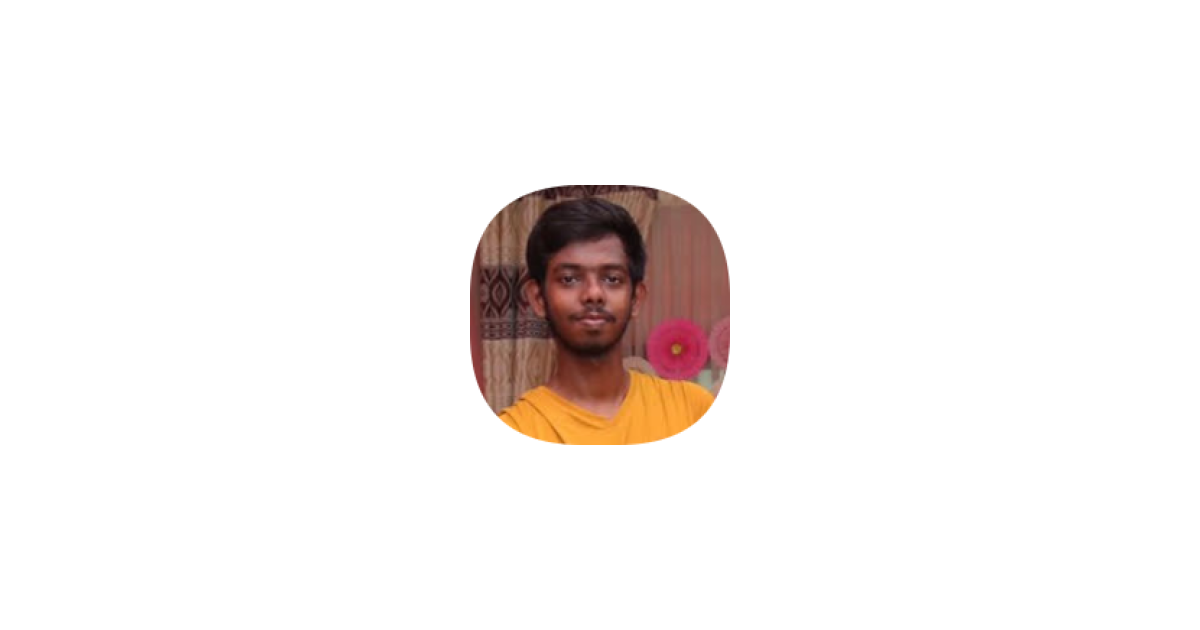
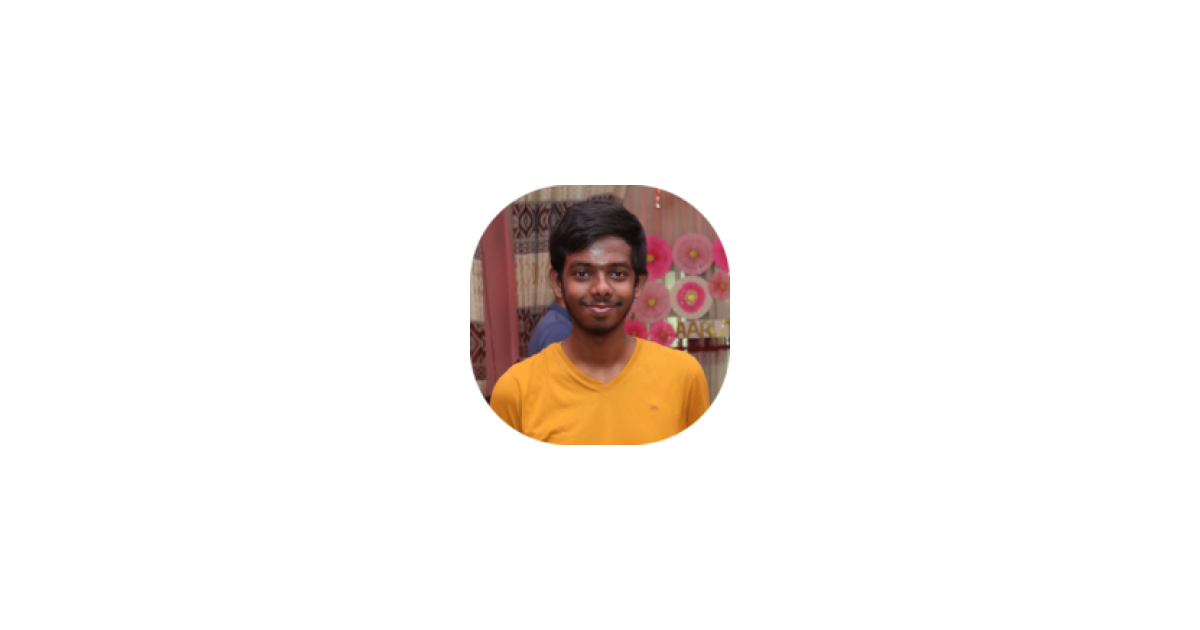
Update from https://github.com/sahithyandev/static-blog/commit/28055900b13a53f1396fbbd0891c49ab7c7b8c8c

Changed region(s): [[0.37, 0.2714, 0.6167, 0.7238], [0.5242, 0.6937, 0.555, 0.7238]]

diff --git a/index.js b/index.js
@@ -1,4 +1,4 @@
-!function(t,n){"use strict";
+!function(t,e){"use strict";
 /*! *****************************************************************************
     Copyright (c) Microsoft Corporation.
 
@@ -12,7 +12,7 @@
     LOSS OF USE, DATA OR PROFITS, WHETHER IN AN ACTION OF CONTRACT, NEGLIGENCE OR
     OTHER TORTIOUS ACTION, ARISING OUT OF OR IN CONNECTION WITH THE USE OR
     PERFORMANCE OF THIS SOFTWARE.
-    ***************************************************************************** */var e=function(){return(e=Object.assign||function(t){for(var n,e=1,r=arguments.length;e<r;e++)for(var a in n=arguments[e])Object.prototype.hasOwnProperty.call(n,a)&&(t[a]=n[a]);return t}).apply(this,arguments)},r=function(n){n.href||console.warn("A link without 'href' is found\nDEBUG_NOTE "+n.children);var r=n.href||"",a=n.disableDefaultStyles||!1,i=e({},n);return r.startsWith("/")||r.startsWith("#")?i["data-is-internal"]="":(i.target="_blank",i.rel="noopener noreferrer"),i.class=(i.class||"").split(" ").concat([a?"":"styled-link"]).join(" "),i.disableDefaultStyles=null,t.h("a",e({},i))},a=[{route:"/projects",text:"Projects"},{route:"/posts",text:"Posts"},{route:"/about",text:"About"}];function i(n){var e=n.children,a=n.route;return t.h(r,{disableDefaultStyles:!0,href:a,class:"nav--link"},e)}function o(n){return t.h("nav",null,n.hideLogo?t.h("div",null):t.h(r,{disableDefaultStyles:!0,href:"/",class:"nav--logo"},"sahithyan"),t.h("input",{type:"checkbox",id:"menu-toggle"}),t.h("label",{for:"menu-toggle",class:"hamburger-icon"}),t.h("ul",null,a.map((function(n,e){return t.h("li",{key:n.route,"data-animation-delay-id":e},t.h(i,{route:n.route},n.text))}))))}function s(){return t.h("footer",null,"© Sahithyan 2021")}function l(n){var e=n.tags;return t.h("div",{class:"tags-container"},e.map((function(n){return t.h("span",{key:n,class:"tag"},n)})))}function h(n){return t.h("div",{class:"post-card show","data-slug":n.meta.slug},t.h("span",{class:"post-released-date"},n.meta.dateCreated),t.h(r,{disableDefaultStyles:!0,href:"/post/"+n.meta.slug},t.h("h3",{class:"title"},n.meta.title)),t.h("p",{class:"description"},n.meta.description),t.h(l,{tags:n.meta.tags}))}function c(){var n=[{providerName:"Twitter",id:"sahithyandev",link:"https://www.twitter.com/sahithyandev",icon:'<svg xmlns="http://www.w3.org/2000/svg" class="icon icon-tabler icon-tabler-brand-twitter" width="24" height="24" viewBox="0 0 24 24" stroke-width="2" stroke="currentColor" fill="none" stroke-linecap="round" stroke-linejoin="round">\n  <path stroke="none" d="M0 0h24v24H0z" fill="none"/>\n  <path d="M22 4.01c-1 .49 -1.98 .689 -3 .99c-1.121 -1.265 -2.783 -1.335 -4.38 -.737s-2.643 2.06 -2.62 3.737v1c-3.245 .083 -6.135 -1.395 -8 -4c0 0 -4.182 7.433 4 11c-1.872 1.247 -3.739 2.088 -6 2c3.308 1.803 6.913 2.423 10.034 1.517c3.58 -1.04 6.522 -3.723 7.651 -7.742a13.84 13.84 0 0 0 .497 -3.753c-.002 -.249 1.51 -2.772 1.818 -4.013z" />\n</svg>\n\n\n'},{id:"sahithyan_",providerName:"Instagram",link:"https://www.instagram.com/sahithyan_",icon:'<svg xmlns="http://www.w3.org/2000/svg" class="icon icon-tabler icon-tabler-brand-instagram" width="24" height="24" viewBox="0 0 24 24" stroke-width="2" stroke="currentColor" fill="none" stroke-linecap="round" stroke-linejoin="round">\n  <path stroke="none" d="M0 0h24v24H0z" fill="none"/>\n  <rect x="4" y="4" width="16" height="16" rx="4" />\n  <circle cx="12" cy="12" r="3" />\n  <line x1="16.5" y1="7.5" x2="16.5" y2="7.501" />\n</svg>\n\n\n'},{id:"sahithyandev",providerName:"GitHub",link:"https://www.github.com/sahithyandev",icon:'<svg xmlns="http://www.w3.org/2000/svg" class="icon icon-tabler icon-tabler-brand-github" width="24" height="24" viewBox="0 0 24 24" stroke-width="2" stroke="currentColor" fill="none" stroke-linecap="round" stroke-linejoin="round">\n  <path stroke="none" d="M0 0h24v24H0z" fill="none"/>\n  <path d="M9 19c-4.3 1.4 -4.3 -2.5 -6 -3m12 5v-3.5c0 -1 .1 -1.4 -.5 -2c2.8 -.3 5.5 -1.4 5.5 -6a4.6 4.6 0 0 0 -1.3 -3.2a4.2 4.2 0 0 0 -.1 -3.2s-1.1 -.3 -3.5 1.3a12.3 12.3 0 0 0 -6.2 0c-2.4 -1.6 -3.5 -1.3 -3.5 -1.3a4.2 4.2 0 0 0 -.1 3.2a4.6 4.6 0 0 0 -1.3 3.2c0 4.6 2.7 5.7 5.5 6c-.6 .6 -.6 1.2 -.5 2v3.5" />\n</svg>\n\n\n'},{providerName:"RSS Feed",link:"https://sahithyandev.github.io/feed.xml",icon:'<svg xmlns="http://www.w3.org/2000/svg" class="icon icon-tabler icon-tabler-rss" width="24" height="24" viewBox="0 0 24 24" stroke-width="2" stroke="currentColor" fill="none" stroke-linecap="round" stroke-linejoin="round">\n  <path stroke="none" d="M0 0h24v24H0z" fill="none"/>\n  <circle cx="5" cy="19" r="1" />\n  <path d="M4 4a16 16 0 0 1 16 16" />\n  <path d="M4 11a9 9 0 0 1 9 9" />\n</svg>\n\n\n'}];return t.h("div",{class:"social-links"},n.map((function(n){return t.h(r,{title:n.id?n.providerName+" ("+n.id+")":n.providerName,key:n.providerName,disableDefaultStyles:!0,href:n.link,dangerouslySetInnerHTML:{__html:n.icon}})})))}
+    ***************************************************************************** */var n=function(){return(n=Object.assign||function(t){for(var e,n=1,r=arguments.length;n<r;n++)for(var a in e=arguments[n])Object.prototype.hasOwnProperty.call(e,a)&&(t[a]=e[a]);return t}).apply(this,arguments)},r=function(e){e.href||console.warn("A link without 'href' is found\nDEBUG_NOTE "+e.children);var r=e.href||"",a=e.disableDefaultStyles||!1,i=n({},e);return r.startsWith("/")||r.startsWith("#")?i["data-is-internal"]="":(i.target="_blank",i.rel="noopener noreferrer"),i.class=(i.class||"").split(" ").concat([a?"":"styled-link"]).join(" "),i.disableDefaultStyles=null,t.h("a",n({},i))},a=[{route:"/projects",text:"Projects"},{route:"/posts",text:"Posts"},{route:"/about",text:"About"}];function i(e){var n=e.children,a=e.route;return t.h(r,{disableDefaultStyles:!0,href:a,class:"nav--link"},n)}function o(e){return t.h("nav",null,e.hideLogo?t.h("div",null):t.h(r,{disableDefaultStyles:!0,href:"/",class:"nav--logo"},"sahithyan"),t.h("input",{type:"checkbox",id:"menu-toggle"}),t.h("label",{for:"menu-toggle",class:"hamburger-icon"}),t.h("ul",null,a.map((function(e,n){return t.h("li",{key:e.route,"data-animation-delay-id":n},t.h(i,{route:e.route},e.text))}))))}function s(){return t.h("footer",null,"© Sahithyan 2021")}function l(e){var n=e.tags;return t.h("div",{class:"tags-container"},n.map((function(e){return t.h("span",{key:e,class:"tag"},e)})))}function h(e){return t.h("div",{class:"post-card show","data-slug":e.meta.slug},t.h("span",{class:"post-released-date"},e.meta.dateCreated),t.h(r,{disableDefaultStyles:!0,href:"/post/"+e.meta.slug},t.h("h3",{class:"title"},e.meta.title)),t.h("p",{class:"description"},e.meta.description),t.h(l,{tags:e.meta.tags}))}function c(){var e=[{providerName:"Twitter",id:"sahithyandev",link:"https://www.twitter.com/sahithyandev",icon:'<svg xmlns="http://www.w3.org/2000/svg" class="icon icon-tabler icon-tabler-brand-twitter" width="24" height="24" viewBox="0 0 24 24" stroke-width="2" stroke="currentColor" fill="none" stroke-linecap="round" stroke-linejoin="round">\n  <path stroke="none" d="M0 0h24v24H0z" fill="none"/>\n  <path d="M22 4.01c-1 .49 -1.98 .689 -3 .99c-1.121 -1.265 -2.783 -1.335 -4.38 -.737s-2.643 2.06 -2.62 3.737v1c-3.245 .083 -6.135 -1.395 -8 -4c0 0 -4.182 7.433 4 11c-1.872 1.247 -3.739 2.088 -6 2c3.308 1.803 6.913 2.423 10.034 1.517c3.58 -1.04 6.522 -3.723 7.651 -7.742a13.84 13.84 0 0 0 .497 -3.753c-.002 -.249 1.51 -2.772 1.818 -4.013z" />\n</svg>\n\n\n'},{id:"sahithyan_",providerName:"Instagram",link:"https://www.instagram.com/sahithyan_",icon:'<svg xmlns="http://www.w3.org/2000/svg" class="icon icon-tabler icon-tabler-brand-instagram" width="24" height="24" viewBox="0 0 24 24" stroke-width="2" stroke="currentColor" fill="none" stroke-linecap="round" stroke-linejoin="round">\n  <path stroke="none" d="M0 0h24v24H0z" fill="none"/>\n  <rect x="4" y="4" width="16" height="16" rx="4" />\n  <circle cx="12" cy="12" r="3" />\n  <line x1="16.5" y1="7.5" x2="16.5" y2="7.501" />\n</svg>\n\n\n'},{id:"sahithyandev",providerName:"GitHub",link:"https://www.github.com/sahithyandev",icon:'<svg xmlns="http://www.w3.org/2000/svg" class="icon icon-tabler icon-tabler-brand-github" width="24" height="24" viewBox="0 0 24 24" stroke-width="2" stroke="currentColor" fill="none" stroke-linecap="round" stroke-linejoin="round">\n  <path stroke="none" d="M0 0h24v24H0z" fill="none"/>\n  <path d="M9 19c-4.3 1.4 -4.3 -2.5 -6 -3m12 5v-3.5c0 -1 .1 -1.4 -.5 -2c2.8 -.3 5.5 -1.4 5.5 -6a4.6 4.6 0 0 0 -1.3 -3.2a4.2 4.2 0 0 0 -.1 -3.2s-1.1 -.3 -3.5 1.3a12.3 12.3 0 0 0 -6.2 0c-2.4 -1.6 -3.5 -1.3 -3.5 -1.3a4.2 4.2 0 0 0 -.1 3.2a4.6 4.6 0 0 0 -1.3 3.2c0 4.6 2.7 5.7 5.5 6c-.6 .6 -.6 1.2 -.5 2v3.5" />\n</svg>\n\n\n'},{providerName:"RSS Feed",link:"https://sahithyandev.github.io/feed.xml",icon:'<svg xmlns="http://www.w3.org/2000/svg" class="icon icon-tabler icon-tabler-rss" width="24" height="24" viewBox="0 0 24 24" stroke-width="2" stroke="currentColor" fill="none" stroke-linecap="round" stroke-linejoin="round">\n  <path stroke="none" d="M0 0h24v24H0z" fill="none"/>\n  <circle cx="5" cy="19" r="1" />\n  <path d="M4 4a16 16 0 0 1 16 16" />\n  <path d="M4 11a9 9 0 0 1 9 9" />\n</svg>\n\n\n'}];return t.h("div",{class:"social-links"},e.map((function(e){return t.h(r,{title:e.id?e.providerName+" ("+e.id+")":e.providerName,key:e.providerName,disableDefaultStyles:!0,href:e.link,dangerouslySetInnerHTML:{__html:e.icon}})})))}
 /*! *****************************************************************************
     Copyright (c) Microsoft Corporation.
 
@@ -26,4 +26,4 @@
     LOSS OF USE, DATA OR PROFITS, WHETHER IN AN ACTION OF CONTRACT, NEGLIGENCE OR
     OTHER TORTIOUS ACTION, ARISING OUT OF OR IN CONNECTION WITH THE USE OR
     PERFORMANCE OF THIS SOFTWARE.
-    ***************************************************************************** */var u;function d(n){return t.h(t.Fragment,null,t.h(o,{hideLogo:!0}),t.h("main",null,t.h("div",{class:"stretch-out me-banner"},t.h("h1",null,"Sahithyan"),t.h("p",null,"student, web developer & tech enthusiast"),t.h(c,null)),t.h("section",null,t.h("h2",{class:"sub-heading"},"Recent Posts"),t.h("div",{class:"posts-container"},(pageData.latestPosts||[]).map((function(n){return t.h(h,{meta:n,key:n.slug})}))))),t.h(s,null))}u={red:91,yellow:93,cyan:96},Object.fromEntries(Object.entries(u).map((function(t){return[t[0],"["+t[1]+"m"]})));t.render(t.h((function(){var e=n.useState([]),r=e[0];return e[1],t.h(d,{latestPosts:r.slice(0,4).map((function(t){return t.meta}))})}),null),document.getElementById("root"))}(preact,preact);
+    ***************************************************************************** */var u;function d(e){return t.h(t.Fragment,null,t.h(o,{hideLogo:!0}),t.h("main",null,t.h("div",{class:"stretch-out me-banner"},t.h("h1",null,"Sahithyan"),t.h("h3",null,"student, web developer & tech enthusiast"),t.h("img",{src:"/me.png",alt:"me"}),t.h(c,null)),t.h("section",null,t.h("h2",{class:"sub-heading"},"Recent Posts"),t.h("div",{class:"posts-container"},(pageData.latestPosts||[]).map((function(e){return t.h(h,{meta:e,key:e.slug})}))))),t.h(s,null))}u={red:91,yellow:93,cyan:96},Object.fromEntries(Object.entries(u).map((function(t){return[t[0],"["+t[1]+"m"]})));t.render(t.h((function(){var n=e.useState([]),r=n[0];return n[1],t.h(d,{latestPosts:r.slice(0,4).map((function(t){return t.meta}))})}),null),document.getElementById("root"))}(preact,preact);

diff --git a/index.html b/index.html
@@ -142,19 +142,51 @@
       }
 
       .me-banner {
-        display: flex;
-        flex-direction: column;
-        align-items: center;
+        display: grid;
+        grid-template-columns: 80% 20%;
+        grid-template-rows: auto auto auto;
+        grid-template-areas: "name img" "description img" "social-links img";
+        column-gap: 10px;
         margin-top: 3rem;
         margin-bottom: 4rem;
         padding: 20px 0 30px;
       }
       .me-banner h1 {
-        margin-bottom: 0.5rem;
+        grid-area: name;
+        margin-top: 0.1rem;
+        margin-bottom: 6px;
+        font-size: 3rem;
       }
-      .me-banner p {
+      .me-banner h3 {
+        grid-area: description;
         margin: 0;
-        text-align: center;
+        margin-bottom: 25px;
+        font-weight: normal;
+        font-size: 1rem;
+        line-height: 1.5rem;
+      }
+      .me-banner .social-links {
+        grid-area: social-links;
+        margin: 0;
+      }
+      .me-banner img {
+        grid-area: img;
+        width: 100%;
+        height: auto;
+      }
+      @media (max-width: 640px) {
+        .me-banner {
+          grid-template-columns: 100%;
+          grid-template-rows: auto auto auto auto;
+          grid-template-areas: "img" "name" "description" "social-links";
+        }
+        .me-banner h1 {
+          font-size: 2.5rem;
+        }
+        .me-banner img {
+          max-width: 100px;
+          margin-bottom: 20px;
+        }
       }
 
       .sub-heading {
@@ -196,7 +228,8 @@
       <main>
         <div class="stretch-out me-banner">
           <h1>Sahithyan</h1>
-          <p>student, web developer &amp; tech enthusiast</p>
+          <h3>student, web developer &amp; tech enthusiast</h3>
+          <img src="/me.png" alt="me" />
           <div class="social-links">
             <a
               title="Twitter (sahithyandev)"

diff --git a/service-worker.js b/service-worker.js
@@ -1,1 +1,1 @@
-!function(){"use strict";var e="blog-cache-9283628",t=["/global.css","/lib-preact.js","/favicon.ico"];self.addEventListener("install",(function(n){n.waitUntil(caches.open(e).then((function(e){e.addAll(t)})))})),self.addEventListener("activate",(function(t){console.log("sw activate"),t.waitUntil(caches.keys().then((function(t){return Promise.all(t.map((function(t){if(console.log("sw cache",t),t!==e)return caches.delete(t)})))})))})),self.addEventListener("fetch",(function(t){"chrome-extension"!==t.request.url.split("://")[0]&&"GET"==t.request.method&&t.respondWith(caches.match(t.request).then((function(n){return n||fetch(t.request).then((function(n){if(!n||200!==n.status)return n;var c=n.clone();return caches.open(e+"_runtime").then((function(e){e.put(t.request,c)})),n}))})))})),console.log("service worker working")}();
+!function(){"use strict";var e="blog-cache-5128844",t=["/global.css","/lib-preact.js","/favicon.ico"];self.addEventListener("install",(function(n){n.waitUntil(caches.open(e).then((function(e){e.addAll(t)})))})),self.addEventListener("activate",(function(t){console.log("sw activate"),t.waitUntil(caches.keys().then((function(t){return Promise.all(t.map((function(t){if(console.log("sw cache",t),t!==e)return caches.delete(t)})))})))})),self.addEventListener("fetch",(function(t){"chrome-extension"!==t.request.url.split("://")[0]&&"GET"==t.request.method&&t.respondWith(caches.match(t.request).then((function(n){return n||fetch(t.request).then((function(n){if(!n||200!==n.status)return n;var c=n.clone();return caches.open(e+"_runtime").then((function(e){e.put(t.request,c)})),n}))})))})),console.log("service worker working")}();
